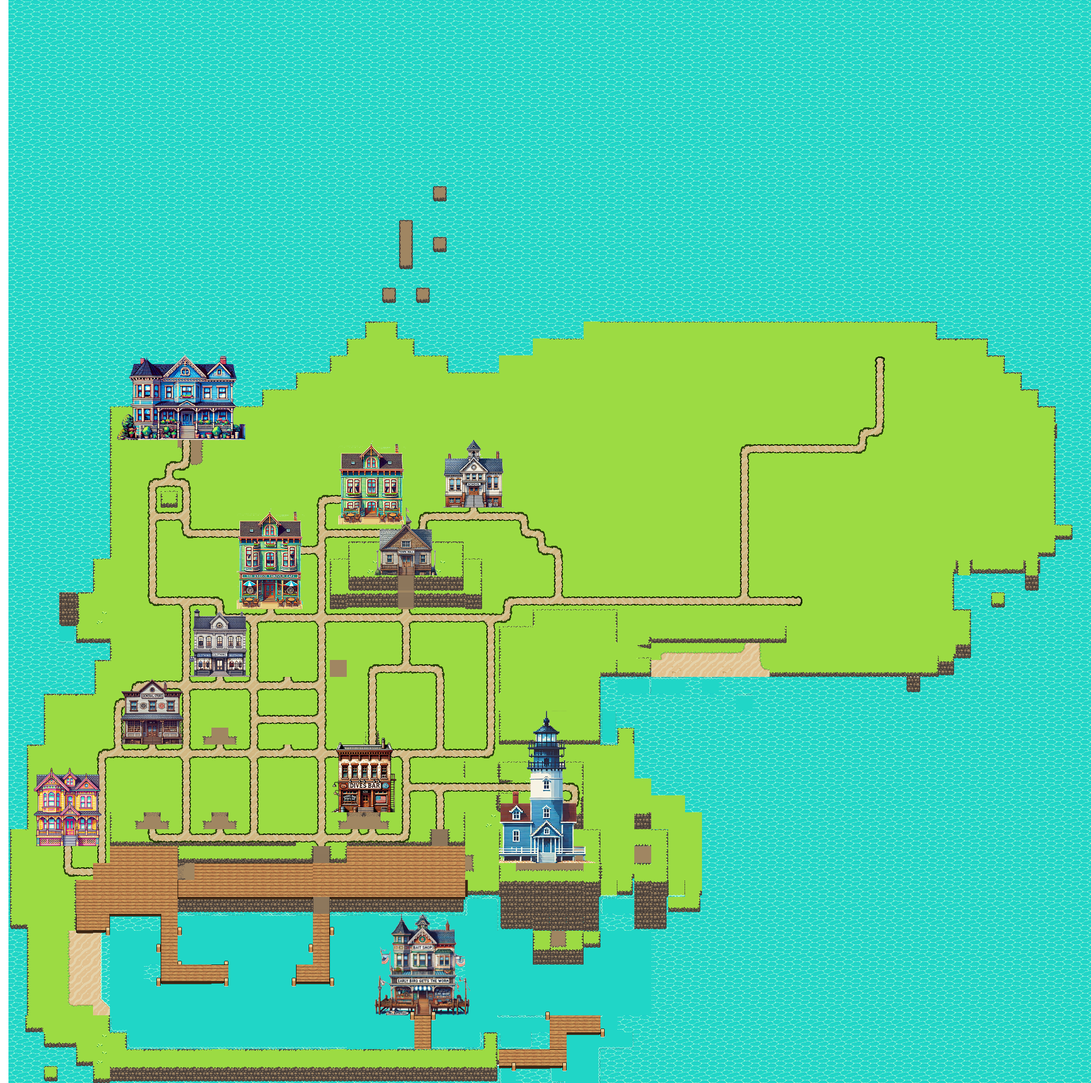
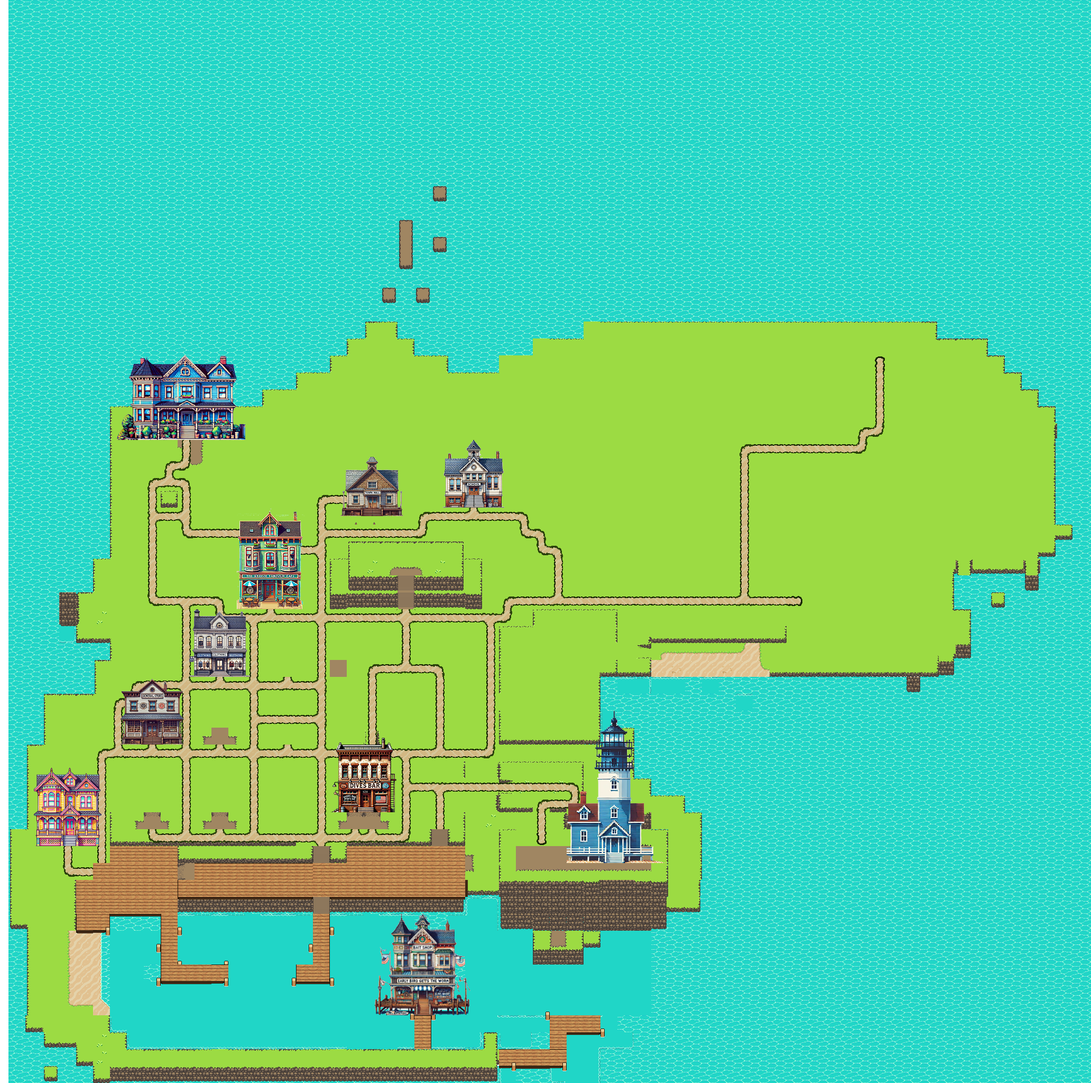
Add Buildings Via Script

Changed region(s): [[0.4341, 0.6562, 0.6202, 0.875], [0.3101, 0.4062, 0.4031, 0.5312]]

diff --git a/public/src/components/IslandSketch/Scenes/GameMapScene.js b/public/src/components/IslandSketch/Scenes/GameMapScene.js
@@ -91,8 +91,7 @@ export class GameMapScene extends GameScene {
 
     this.useCharImage = true;
     this.useBGImage = true;
-    this.bgImage = this.parentAssets["GameMapScene"]["BGImage"];
-    this.WaveSpriteSheet = this.parentAssets["GameMapScene"]["WaveSpriteSheet"];
+    this.lotImages = {};
 
     this.loadAssets();
     // character profile images data structure map CharKey:Str -> p5.Image
@@ -157,6 +156,10 @@ export class GameMapScene extends GameScene {
         )
     );
     this.lots = [...lotEntities];
+    let newLots = [...IslandTemplate.newLots];
+    newLots.forEach((v,i)=>{
+      this.lots.push(new LotEntity(v.id, v.name, v.location.x, v.location.y, {...IslandTemplate.DEFAULTLOTPROPERTIES, ...v.lotDetails, ...{imgObj: this.parentAssets["GameMapScene"][v.id]}}, []));
+    });
   }
 
   initializeCharacters() {

diff --git a/public/src/components/IslandSketch/Entities/LotEntity.js b/public/src/components/IslandSketch/Entities/LotEntity.js
@@ -11,6 +11,9 @@ class LotEntity extends Entity {
     this.characters = characters;
     this.building = {name:this.name, description: this.lotDetails.description || "no desc", type:"Store", owner:"Maureen", value:100000};
     this.occupied = false;
+    this.imgObj = undefined;
+    if(ldetails.imgObj)
+      this.imgObj = ldetails.imgObj;
   }
 
   isMouseOver(p5, offset, scal){
@@ -42,7 +45,11 @@ class LotEntity extends Entity {
       p5.fill(`${fillColor}${transparency}`);
     }
 
-    p5.ellipse(ps.x, ps.y, 10, 10);
+    if(this.imgObj){
+      p5.image(this.imgObj, ps.x*2-90, ps.y*2-171,160,171);
+    }else{
+      p5.ellipse(ps.x, ps.y, 10, 10);
+    }
 
     if (this.isMouseOver(p5,offset,scal) || super.isSelected()) {
       p5.fill(`${fillColor}ff`);

diff --git a/public/src/components/IslandSketch/IslandSketch.jsx b/public/src/components/IslandSketch/IslandSketch.jsx
@@ -67,6 +67,11 @@ const IslandSketch = ({
     assetsByScene[mapSceneId]["PlayerBackHeadImage"] = p5.loadImage("images/BackHeadMainChar.png");
     assetsByScene[mapSceneId]["OtherPlayerImage"] = p5.loadImage("images/playerStandingChar.png");
     assetsByScene[mapSceneId]["OtherPlayerProfileImage"] = p5.loadImage("images/CharacterProfileImages/LukasMallard.png");
+  
+    let newLots = [...IslandTemplate.newLots];
+    newLots.forEach((v)=>{
+      assetsByScene[mapSceneId][v.id] = p5.loadImage("images/lots/"+v.lotDetails.imgFileSrc);
+    });
   };
 
   const setup = (p5, canvasParentRef) => {

diff --git a/public/src/utils/IslandTemplateTile.js b/public/src/utils/IslandTemplateTile.js
@@ -123,8 +123,12 @@ export const IslandTemplate = {
         { x: 115*2, y: 1585*2 },
       ]
   },
+  newLots: [
+    {id: "townhalltabernacle", name: "The Tabernacle", location:{x:775,y:1080}, lotDetails:{"imgFileSrc":"TownHall.png"}},
+    {id: "RedRoofHouse10", name: "House", location:{x:1200,y:1100}, lotDetails:{"imgFileSrc":"houseRedRoof1.png"}}
+  ],
   Image: {
-    source: "images/SnugIslandNew2.png",
+    source: "images/SnugIslandmin.png",
     size: {x:2048,y:2048}
   },
   INPUTKEY_TO_STATE_MAP: {

diff --git a/public/src/components/IslandSketch/Scenes/AssetsListGameMapScene.js b/public/src/components/IslandSketch/Scenes/AssetsListGameMapScene.js
@@ -1,6 +1,10 @@
 import AnimatedSpriteEntity from "../Entities/AnimatedSpriteEntity";
 
 const AssetsListGameMapScene = function LoadAssetsGameMapScene(parentAssetsDict,that,charPos) {
+        
+        that.bgImage = parentAssetsDict["GameMapScene"]["BGImage"];
+        that.WaveSpriteSheet = parentAssetsDict["GameMapScene"]["WaveSpriteSheet"];
+
         that.AnimatedSprites.push(
             new AnimatedSpriteEntity(
                 "as2323",

diff --git a/public/src/utils/IslandTemplate.js b/public/src/utils/IslandTemplate.js
@@ -122,7 +122,7 @@ export const IslandTemplate = {
       { x: 790, y: 936, name: "Keeper's" },]
   },
   Image: {
-    source: "images/islandBackgroundNew2.png",
+    source: "images/SnugIslandmin.png",
     size: {x:800,y:600}
   }
 };
